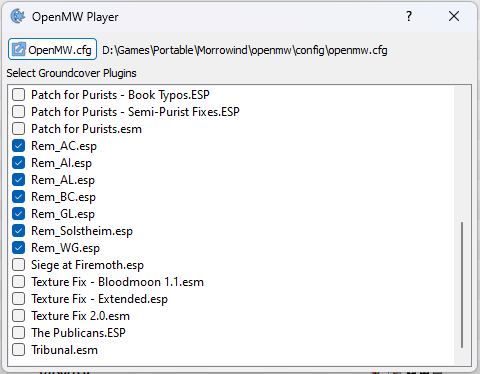
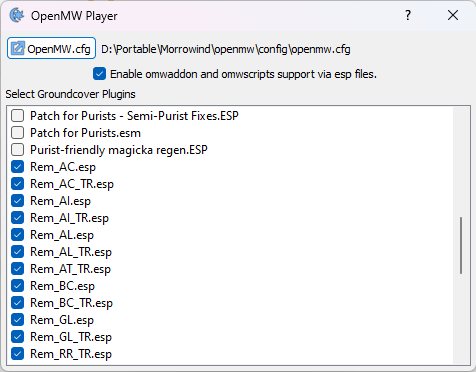
openmwplayer update

Changed region(s): [[0.0, 0.0, 1.0, 1.0]]

diff --git a/html/openmwplayer.html b/html/openmwplayer.html
@@ -36,6 +36,7 @@
                         <li>Run OpenMW through Mod Organizer with your current mod list and plugins.</li>
                         <li>Specify Groundcover mods to use with OpenMW with different setups for each profile.</li>
                         <li>Select the OpenMW.cfg location that you want to update with your mod list.</li>
+                        <li>Manage omwaddon and omwscripts files using dummy esp files.</li>
                     </ul>
                 </div>
             </div>
@@ -83,6 +84,9 @@
                     </figure>
                     <p>
                         The OpenMW Player window allows you to select the location of your <code>openmw.cfg</code> file, as well as select all of your grass/groundcover mods. Any groundcover/grass mods should be selected here as the plugins should not be enabled when the game runs. The selected groundcover mods are set per-profile, so you can have a different set of groundcover mods for each profile in Mod Organizer.
+                    </p>
+                    <p>
+                        There is an additional option to toggle on the use of dummy esp files for <code>.omwaddon</code> and <code>.omwscripts</code> files. If enabled, matching esp files will be created and can be enabled/disabled and sorted within Mod Organizer. Then, when the game is run, the appropriate <code>.omwaddon</code> and <code>.omwscripts</code> files will be enabled in OpenMW instead of the dummy esp files.
                     </p>
                     <figure class="figure">
                         <img src="../img/openmwplayer/manager_menu.png" class="figure-img img-fluid rounded" />
@@ -134,6 +138,13 @@ stomp intensity = 2
                             </tr>
                             <tr>
                                 <td colspan="2">The path to <code>openmw.cfg</code>.</td>
+                            </tr>
+                            <tr>
+                                <td>dummyesp</td>
+                                <td><code>False</code></td>
+                            </tr>
+                            <tr>
+                                <td colspan="2">Enables omwaddon and omwscripts support via esp files.</td>
                             </tr>
                         </tbody>
                     </table>
